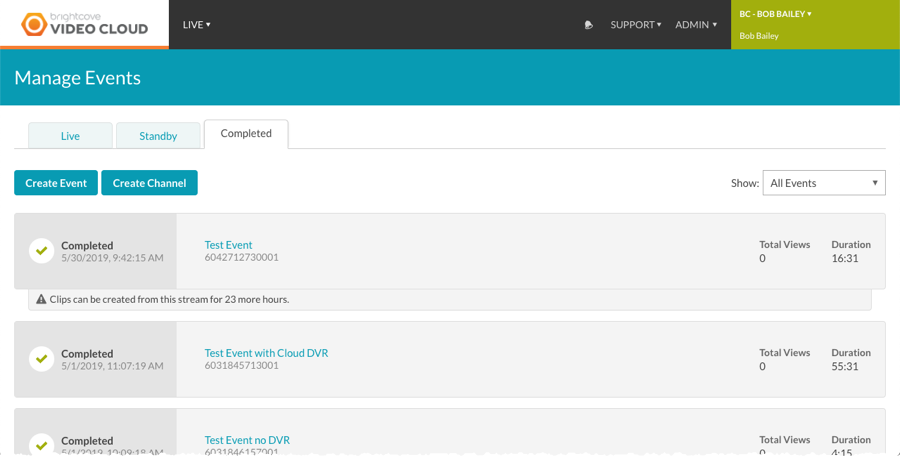
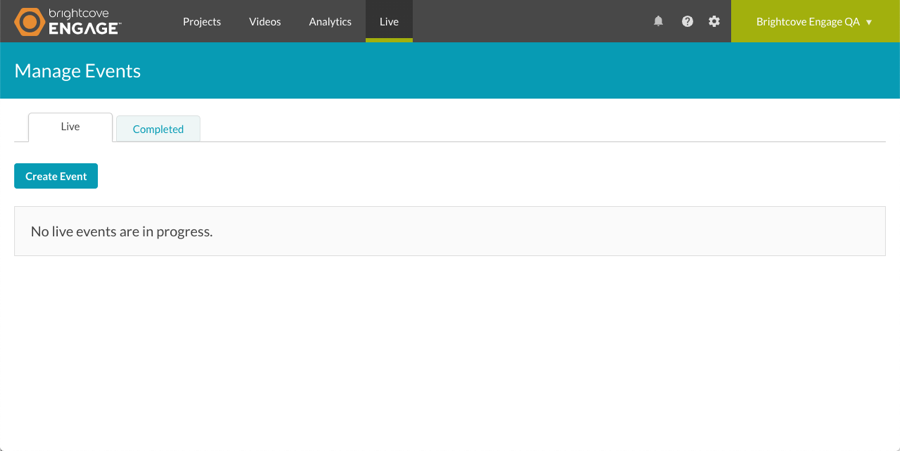
updates to live doc.

diff --git a/live/creating-and-managing-live-events-using-live-module.html b/live/creating-and-managing-live-events-using-live-module.html
@@ -7,8 +7,7 @@ parent: Working with Live Events
   <summary>In this topic you will learn how to create and manage live events.</summary>
   <section class="bcls-section">
     <h2 id="introduction">Introduction</h2>
-    <p>The Live module can be used to help you broadcast a live event to both desktop and mobile devices. After entering your event information into the Live module, you will be provided with a set of encoder settings that you plug into your on-site encoder. All transcoding is done in the cloud so you don't need a hardware based transcoder.</p>
-    <p>Depending on your Live subscription, you may have the ability to create events, channels or both. Typically, events are created to stream shorter length, one time or recurring events. Channels are typically used when delivering 24/7 live events.</p>
+    <p>The Live module can be used to help you broadcast a live event to both desktop and mobile devices. After entering your event information into the Live module, you will be provided with a set of encoder settings that you plug into your on-site encoder. All transcoding is done in the cloud so you don't need a hardware based transcoder. </p>
   </section>
   <section class="bcls-section">
     <h2 id="prerequisites">Prerequisites</h2>
@@ -31,14 +30,12 @@ parent: Working with Live Events
   </section>
   <section class="bcls-section">
     <h2 id="manage">Managing live events</h2>
-    <p>To access the Live module, login to Video Cloud Studio and click <strong> Live</strong> in the navigation header. After logging in, your Video Cloud account name will appear in the upper right corner of the page. If you have multiple accounts, use the account switcher dropdown to select the account you would like to work with. If the account you select hasn't been enabled for Live, an introductory "Brightcove Live" video page will appear. The Manage Events page displays three main tabs:</p>
+    <p>To get started with live events, login to <a href="https://studio.brightcove.com/products/brightcoveengage">Brightcove Engage&trade;</a> and click <strong>Live</strong> in the navigation header. The Manage Events page displays two main tabs:</p>
     <ul>
       <li class="language-editable"><strong>Live</strong> - Lists live events that are in progress</li>
-      <li class="language-editable"><strong>Standby</strong> - Lists <a href="#intro_recurring">recurring events</a> that are in standby mode</li>
       <li class="language-editable"><strong>Completed</strong> - Lists completed events</li>
     </ul>
     <figure class="bcls-figure"><img class="bcls-image--no-border" alt="" src="/assets/images/live/live-homepage.png" /></figure>
-    <aside class="bcls-aside bcls-aside--information">Note: The ability to create live channels is based upon your Live subscription.</aside>
     <p>The <strong>Show</strong> dropdown can be used to filter the events that appear on the <strong>Completed</strong> tab.</p>
     <p>The body of the page will display a list of live events with related information:</p>
     <ul>
@@ -52,8 +49,6 @@ parent: Working with Live Events
           <li class="language-editable"><strong>Cancelling</strong> - The live stream is stopping and will NOT process any pending VOD outputs</li>
           <li class="language-editable"><strong>Cancelled</strong> - The live stream has been cancelled</li>
           <li class="language-editable"><strong>Disconnected</strong> - The encoder has been disconnected</li>
-          <li class="language-editable"><strong>Deactivated</strong> - Recurring event is in a deactivated state</li>
-          <li class="language-editable"><strong>Not Activated</strong> - Recurring event has been activated but a stream start has not occurred</li>
           <li class="language-editable"><strong>Waiting</strong> - Waiting for the RTMP stream (encoder to start)</li>
           <li class="language-editable"><strong>Failed</strong> - The job has stopped as a result of a system error</li>
           <li class="language-editable"><strong>Abandoned</strong> - The event finished without an encoder being connected</li>
@@ -69,35 +64,36 @@ parent: Working with Live Events
   </section>
   <section class="bcls-section">
     <h2 id="create">Creating a new event</h2>
-    <p>For a complete step-by-step guide to creating and streaming a live event using the Live module, see <a href="/live/step-step-using-live-module-telestream-wirecast.html">Step-by-Step: Using the Live Module with Telestream Wirecast</a>.</p>
+    <p>For a complete step-by-step guide to creating and streaming a live event, see:</p>
+    <ul>
+      <li> <a href="/live/step-step-using-live-module-telestream-wirecast.html">Step-by-Step: Using the Live Module with Telestream Wirecast</a></li>
+      <li><a href="/live/step-step-using-live-module-open-broadcaster-software-obs.html">Step-by-Step: Using the Live Module with Open Broadcaster Software (OBS)</a></li>
+    </ul>
     <p>To create a new event, follow these steps.</p>
     <ol class="bcls-tasklist-restart">
-      <li class="language-editable">From the Manage Events page click <strong>Create Event</strong>. The Create Live Event or Create Live Channel page will open. The properties when creating events and channels are the same. The screen shots in this document cover creating an event.
+      <li class="language-editable">From the Manage Events page click <strong>Create Event</strong>. The Create Live Event  page will open.
         <figure class="bcls-figure"><img class="bcls-image--no-border" alt="" src="/assets/images/live/new-live-event.png" /></figure>
       </li>
       <li class="language-editable">Enter the event details:
         <ul>
-          <li class="language-editable"><strong>Event Name</strong> - Name for the event; this name will also appear in the Media module if the video is saved as a video asset (max 255 characters)</li>
+          <li class="language-editable"><strong>Event Name</strong> - Name for the event; this name will also appear in the Videos page if the video is saved as a video asset (max 255 characters)</li>
           <li class="language-editable"><strong>Short Description</strong> - Description of the event (max 250 characters)</li>
           <li class="language-editable"><strong>Tags</strong> - Tags to associate with the event; tags will be assigned to the video if the video is saved as a video asset (max 128 characters and 1200 tags)</li>
           <li class="language-editable"><strong>Reference ID</strong> - Reference ID for the event; must be unique (max 150 characters)</li>
         </ul>
       </li>
-      <li class="language-editable">Any required custom fields for the account will be displayed. Assign values to the custom fields.</li>
-      <li class="language-editable">Setting <strong>Streaming to Social Media</strong> to <strong>Allowed</strong> will make the event available for streaming to social media platforms. This can be done <a href="#social">once the event has started streaming</a> or by using the <a href="/node/18749">Social module</a>.</li>
-      <li class="language-editable">Select a <strong>Live Ingest Profile</strong>. The dropdown list will list all Live ingest profiles. The ingest profile will control the quality and number of live renditions that are created. Clicking the <strong>Manage Profiles</strong> link will open the ingest profile editor in another browser tab. Note that you must be an account administrator to access the ingest profile editor. Click the <strong>RENDITIONS</strong> link to view the renditions that will be created using the selected ingest profile.
-        <aside class="bcls-aside bcls-aside--information language-editable">The bitrate and billing details of the three tiers are as follows:
-          <ul>
-            <li class="language-editable">Tier 1 allows up to 5,500 Kbps and is charged at 1.0x hours</li>
-            <li class="language-editable">Tier 2 allows up to 10,000 Kbps and is charged at 1.5x hours</li>
-            <li class="language-editable">Tier 3 allows up to 20,000 Kbps and is charged at 2.0x hours</li>
-          </ul>
-        </aside>
-        <aside class="bcls-aside bcls-aside--information"> For information on creating Live ingest profiles, see <a href="/node/18471">Creating Custom Live Ingest Profiles</a>.</aside>
-
-      </li>
-      <li class="language-editable">Select <strong>Convert event to video asset when complete</strong> to save a VOD version of the live video to your Video Cloud account. When this option is selected, the highest quality rendition from the selected <strong>Live Ingest Profile</strong> is used as the source for the VOD video. The default ingest profile for the account is used when creating renditions. <strong>Note that the VOD version is not available as soon as the live event ends, the video will be available once the ingestion process is complete.</strong>
-        <aside class="bcls-aside bcls-aside--information">This option is not supported when using a recurring event.</aside>
+      <li class="language-editable">Select <strong>Convert event to video asset when complete</strong> to save a video on demand version of the live video to your  account. <strong>Note that the VOD version is not available as soon as the live event ends, the video will be available once the upload processing is complete.</strong></li>
+      <li class="language-editable">Click <strong>STREAM OPTIONS</strong> and select a <strong>Region</strong>. The <strong>Region</strong> is the Amazon Web Services (AWS) region to use. To reduce latency, you should select the region that is closest to where your encoder is located. <strong>By default, the region is set to Oregon  which will produce bad results if you are streaming from another continent.</strong> The following regions are supported:
+        <ul>
+          <li class="language-editable">Oregon  (default)</li>
+          <li class="language-editable">Virginia</li>
+          <li class="language-editable">Tokyo</li>
+          <li class="language-editable">Singapore</li>
+          <li class="language-editable">Sydney</li>
+          <li class="language-editable">Mumbai</li>
+          <li class="language-editable">Frankfurt</li>
+          <li class="language-editable">Ireland</li>
+        </ul>
       </li>
       <li class="language-editable">Click <strong>ADVANCED OPTIONS</strong> and <a href="#advanced">configure the advanced options</a>.</li>
       <li class="language-editable">Click<strong> Create Event </strong>to start the live event. The <a href="#controlroom">Control Room page</a> will open with details about the live event including the <strong>Streaming Endpoint (RTMP URL)</strong> and <strong>Stream Name</strong> which will be used by your encoder.
@@ -116,13 +112,6 @@ parent: Working with Live Events
     <aside class="bcls-aside bcls-aside--information"> For VOD clips, no notification will be sent.</aside>
     <aside class="bcls-aside bcls-aside--information">Please contact Brightcove Support in the case you are interested in a custom edge CDN hostname.</aside>
     <ul>
-      <li class="language-editable"><strong>Reconnect Time</strong> - If the encoder is disconnected, this is the amount of time that the live stream will be kept available. This setting has no effect on how soon the encoder must be started when a new event is created.</li>
-      <li class="language-editable"><strong>Enable Server Side Ad Insertion (SSAI)</strong> - Enables server side ad insertion. Ads are configured as part of the <a href="/node/18748">server-side ad settings</a>. For information on working with server-side ads in the Live module, see <a href="/node/18753">Implementing Server-Side Ads in the Live Module</a>.
-        <ul>
-          <li class="language-editable"><strong>Fill Slate</strong> - Select a fill slate. The fill slate will be displayed when there are gaps in a live stream ad break that cannot be filled with a dynamically-served ad. Create fill slates as part of the <a href="/node/18588">live settings</a>.</li>
-          <li class="language-editable"><strong>Ad Audio</strong> - When checked, normalizes the audio levels on ads based on the adjustment that is set. This can be used as a way to help make sure ads aren’t significantly louder than the content.</li>
-        </ul>
-      </li>
       <li class="language-editable"><strong>Create Cloud DVR</strong> - Enables DVR capability. If the event is published using a Brightcove Player version earlier than 6.33.0, the <a href="/node/18089">Live DVRUX Plugin</a> is required. Content is available for 7 days after the event finishes.
         <ul>
           <li class="language-editable"><strong>DVR Window</strong> - The amount of time, in seconds, to keep in the live DVR manifest.</li>
@@ -137,19 +126,7 @@ parent: Working with Live Events
       </li>
       <li class="language-editable"><strong>RTMP credentials to use</strong> - Select the RTMP credential used to secure the Streaming Endpoint. Note this option will only appear if the Input Format is RTMP and at least one RTMP credential was created as part of the <a href="/node/18588">Live settings</a>.</li>
       <li class="language-editable"><strong>RTMP IP whitelist</strong> - Enter a set of IP addresses that are allowed to connect to the RTMP endpoint. This controls who can connect to the RTMP endpoint. Note this option will only appear if the Input Format is RTMP.</li>
-      <li class="language-editable"><strong>CIDR Whitelist</strong>&nbsp; - Enter a set of IP addresses that are allowed to connect to the RTP or SRT endpoint. This controls who can connect to the RTP or SRT endpoints. Note this option will only appear if the Input Format is RTP or SRT.</li>
-      <li class="language-editable"><strong>Region</strong> - The Amazon Web Services (AWS) region to use. To reduce latency, you should select the region that is closest to where your encoder is located. <strong>By default, the region is set to Oregon (US West) which will produce bad results if you are streaming from another continent.</strong> The following regions are supported:
-        <ul>
-          <li class="language-editable">Oregon (US West) (default)</li>
-          <li class="language-editable">Virginia (US East)</li>
-          <li class="language-editable">Tokyo (Asia Pacific)</li>
-          <li class="language-editable">Singapore (Asia Pacific)</li>
-          <li class="language-editable">Sydney (Asia Pacific)</li>
-          <li class="language-editable">Mumbai (Asia Pacific)</li>
-          <li class="language-editable">Frankfurt (EU)</li>
-          <li class="language-editable">Ireland (EU)</li>
-        </ul>
-      </li>
+      <li class="language-editable"><strong>CIDR Whitelist</strong>&nbsp; - Enter a set of IP addresses that are allowed to connect to the RTP or SRT endpoint. This controls who can connect to the RTP or SRT endpoints. Note this option will only appear if the Input Format is RTP or SRT.      </li>
       <li class="language-editable"><strong>Content Encryption</strong> - Select the type of encryption to apply to the live stream:
         <ul>
           <li class="language-editable"><strong>None</strong> - No encryption is applied</li>
@@ -167,64 +144,8 @@ parent: Working with Live Events
       </li>
       <li class="language-editable"><strong>Enable stream status notifications</strong> - When checked, enter a <strong>Notification URL</strong>. An http request will be made to the <strong>Notification URL</strong> when there is a change in the job status. This can be used to update a server in response to changes in the job status. For more information on using API notifications, see the <a href="/node/18448">Live API Notifications</a> topic.</li>
       <li class="language-editable"><strong>+ Add multi CDN configuration</strong> - Enter a <strong>label</strong> and <strong>URL</strong> for additional CDNs. This is a whitelist of CDNs that are allowed to ask our primary CDN for the video segments. You are responsible for configuring the secondary CDN correctly.</li>
-      <li class="language-editable"><strong>Create this as a recurring event using a Static Entry Point (SEP)</strong> - Allows a single live stream to be created and then activated/deactivated when needed. For information, see the <a href="#intro_recurring">Introduction to recurring events</a> section of this document.</li>
     </ul>
     <p>Click <strong>Edit Configuration </strong> to view/edit the API request that will be made to create the live stream. Caution should be used when editing the API call directly.</p>
-  </section>
-  <section class="bcls-section">
-    <h2 id="intro_recurring">Introduction to recurring events</h2>
-    <p>Selecting the <strong>Create this as a recurring event using a Static Entry Point (SEP)</strong> option allows for a long-running live stream that can be activated and deactivated while keeping the same entry point URL and playback URL. When using recurring events, the streaming endpoint URL and video ID will not change.</p>
-    <aside class="bcls-aside bcls-aside--information">Note that when you create a recurring event, a video is automatically created for it in the Media module. Do <strong>not</strong> delete this video, as it will be needed every time the event recurs.</aside>
-    <h3>Limitations</h3>
-    <p>The following limitations apply when working with recurring events:</p>
-    <ul>
-      <li class="language-editable">The <strong>Convert event to video asset when complete</strong> option is not available. An alternative is to use clipping to archive the full live event as a VOD. Clips can be created up until the next activation of the stream, or for 7 days, whichever is shorter. When the stream is re-activated, previous recording sessions are removed from the server and can no longer be clipped.</li>
-      <li class="language-editable">Job settings can not be modified, they are currently tied to the settings that initially created the recurring event.</li>
-      <li class="language-editable">Activating the stream can take up to 60 seconds for the event to become available. Some encoders have built-in retry (Wirecast, Elemental, etc.) so the encoders will reconnect as soon as the entry point is available.</li>
-      <li class="language-editable"><strong>Reconnect Time</strong> is still applicable for recurring events on encoder disconnects. If the <strong>Reconnect Time</strong> is reached, the recurring event will be set to a deactivated state. Brightcove recommends deactivating a stream when a job completes and setting the <strong>Reconnect Time</strong> to an acceptable window of time to wait in the event of a disconnect (input hour costs are accrued during this wait period).</li>
-      <li class="language-editable">You should always stop the encoder before deactivating a recurring event. Accounts are allocated a finite number of recurring events. If the limit is reached, you will need to stop one of your recurring events before you can create a new one. If you have reached the maximum number of recurring events and attempt to create another one, an error will be returned.</li>
-    </ul>
-  </section>
-  <section class="bcls-section">
-    <h2 id="work_recurring">Working with recurring events</h2>
-    <p>To create a recurring event, select the <strong>Create this as a recurring event using a Static Entry Point (SEP)</strong> option when creating a live event and then click <strong>Create Event</strong>.</p>
-    <figure class="bcls-figure"><img class="bcls-image--no-border" alt="" src="/assets/images/live/recurring-event-selected.png" /></figure>
-    <p>When the recurring event is created, it will appear in the <strong>Standby</strong> tab on the Manage Events page.</p>
-    <figure class="bcls-figure"><img class="bcls-image--no-border" alt="" src="/assets/images/live/standby-tab.png" /></figure>
-    <p>The recurring event status can be one of:</p>
-    <ul>
-      <li class="language-editable"><strong>Not Activated</strong> - Recurring event has been created and streaming has never started</li>
-      <li class="language-editable"><strong>Waiting</strong> - Recurring event is activated and waiting for stream</li>
-      <li class="language-editable"><strong>Streaming</strong> - Recurring event in progress</li>
-      <li class="language-editable"><strong>Disconnected</strong> - Recurring event is in the process of being stopped</li>
-      <li class="language-editable"><strong>Deactivated</strong> - Recurring event is deactivated</li>
-      <li class="language-editable"><strong>Archived</strong> - Recurring event has been archived</li>
-    </ul>
-    <h3>Activating a recurring event</h3>
-    <p>Activating a recurring event makes the job available for streaming. The recurring event should be activated before the encoder is started. To activate a recurring event:</p>
-    <ol class="bcls-tasklist-restart">
-      <li class="language-editable">Click on the <strong>Standby</strong> tab.</li>
-      <li class="language-editable">Click on the event name to open the event in the Control Room.</li>
-      <li class="language-editable">Click <strong>Activate</strong>.</li>
-      <li class="language-editable">Start your encoder.</li>
-    </ol>
-    <p>When the recurring event is activated, it will move from the <strong>Standby</strong> tab to the <strong>Live</strong> tab.</p>
-    <h3>Deactivating a recurring event</h3>
-    <p>Deactivating a recurring event disables the job for streaming. When the event is over, the recurring event should be deactivated. To deactivate a recurring event:</p>
-    <ol class="bcls-tasklist-restart">
-      <li class="language-editable">Click on the <strong>Live</strong> tab.</li>
-      <li class="language-editable">Click on the event name to open the event in the Control Room.</li>
-      <li class="language-editable">Click <strong>Deactivate</strong>.</li>
-      <li class="language-editable">Stop your encoder.</li>
-    </ol>
-    <h3>Archiving a recurring event</h3>
-    <p>Archiving a recurring event permanently deactivates the job so it can't be enabled for streaming. Eventually the event will be deleted. Only events where streaming was started can be archived. If a recurring event was created and streaming never started, a <strong>Cancel</strong> button will appear vs. an <strong>Archive</strong> button.</p>
-    <p>To archive a recurring event:</p>
-    <ol class="bcls-tasklist-restart">
-      <li class="language-editable">Click on the <strong>Standby</strong> tab.</li>
-      <li class="language-editable">Click on the row for the event to select it.</li>
-      <li class="language-editable">Click <strong>Archive</strong>.</li>
-    </ol>
   </section>
   <section class="bcls-section">
     <h2 id="controlroom">Viewing live event info using the Control Room</h2>
